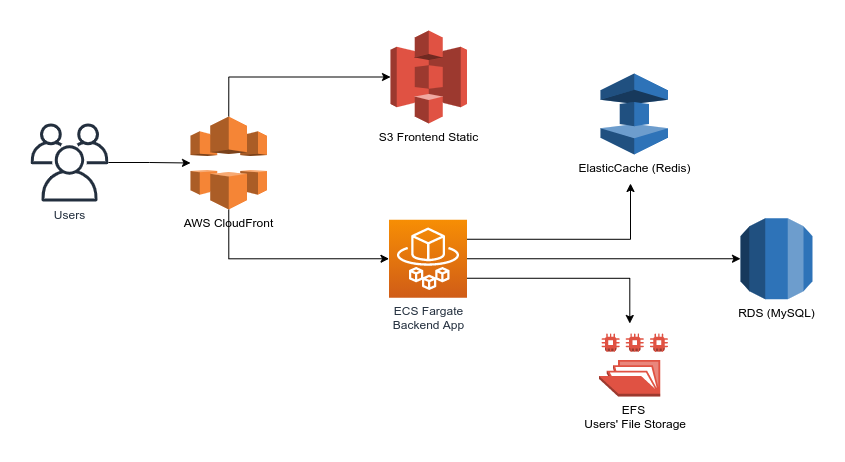
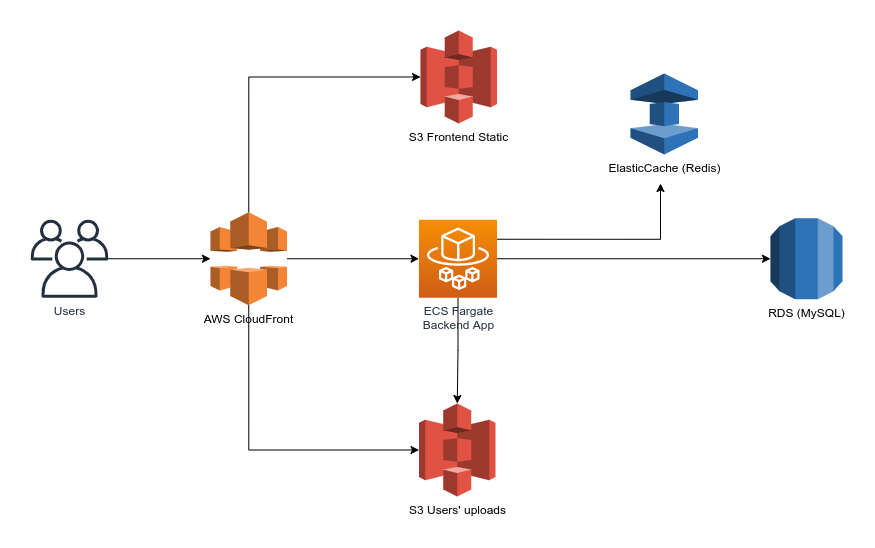
new aws_1 for zadanie_5

Changed region(s): [[0.0308, 0.0606, 0.9846, 0.9394], [0.6769, 0.7273, 0.8308, 0.9394], [0.7385, 0.6667, 0.7692, 0.697]]

diff --git a/zadanie_5/README.md b/zadanie_5/README.md
@@ -2,7 +2,8 @@
 * CloudFrond jako CDN
 * statyczny frontend w buckecie S3
 * kontener backendu uruchomiony w ECS Fargate
-* EFS podpięty do Fargate'a jako storage dla uploadowanych plików
+* upload do bucketa S3 z frontendu
+* dostęp do bucketa S3 z backendu
 * wykorzystanie usługi AWS ElasticCache
 * wykorzystanie usługi AWS RDS
 ![Propozycja 1](/zadanie_5/aws_1.png)
@@ -12,5 +13,3 @@
 * wszystkie komponenty są uruchomione jako kontenery w ECS Fargate
 * EFS podpięty do Fargate'a jako storage dla uploadowanych plików
 ![Propozycja 2](/zadanie_5/aws_2.png)
-
-
